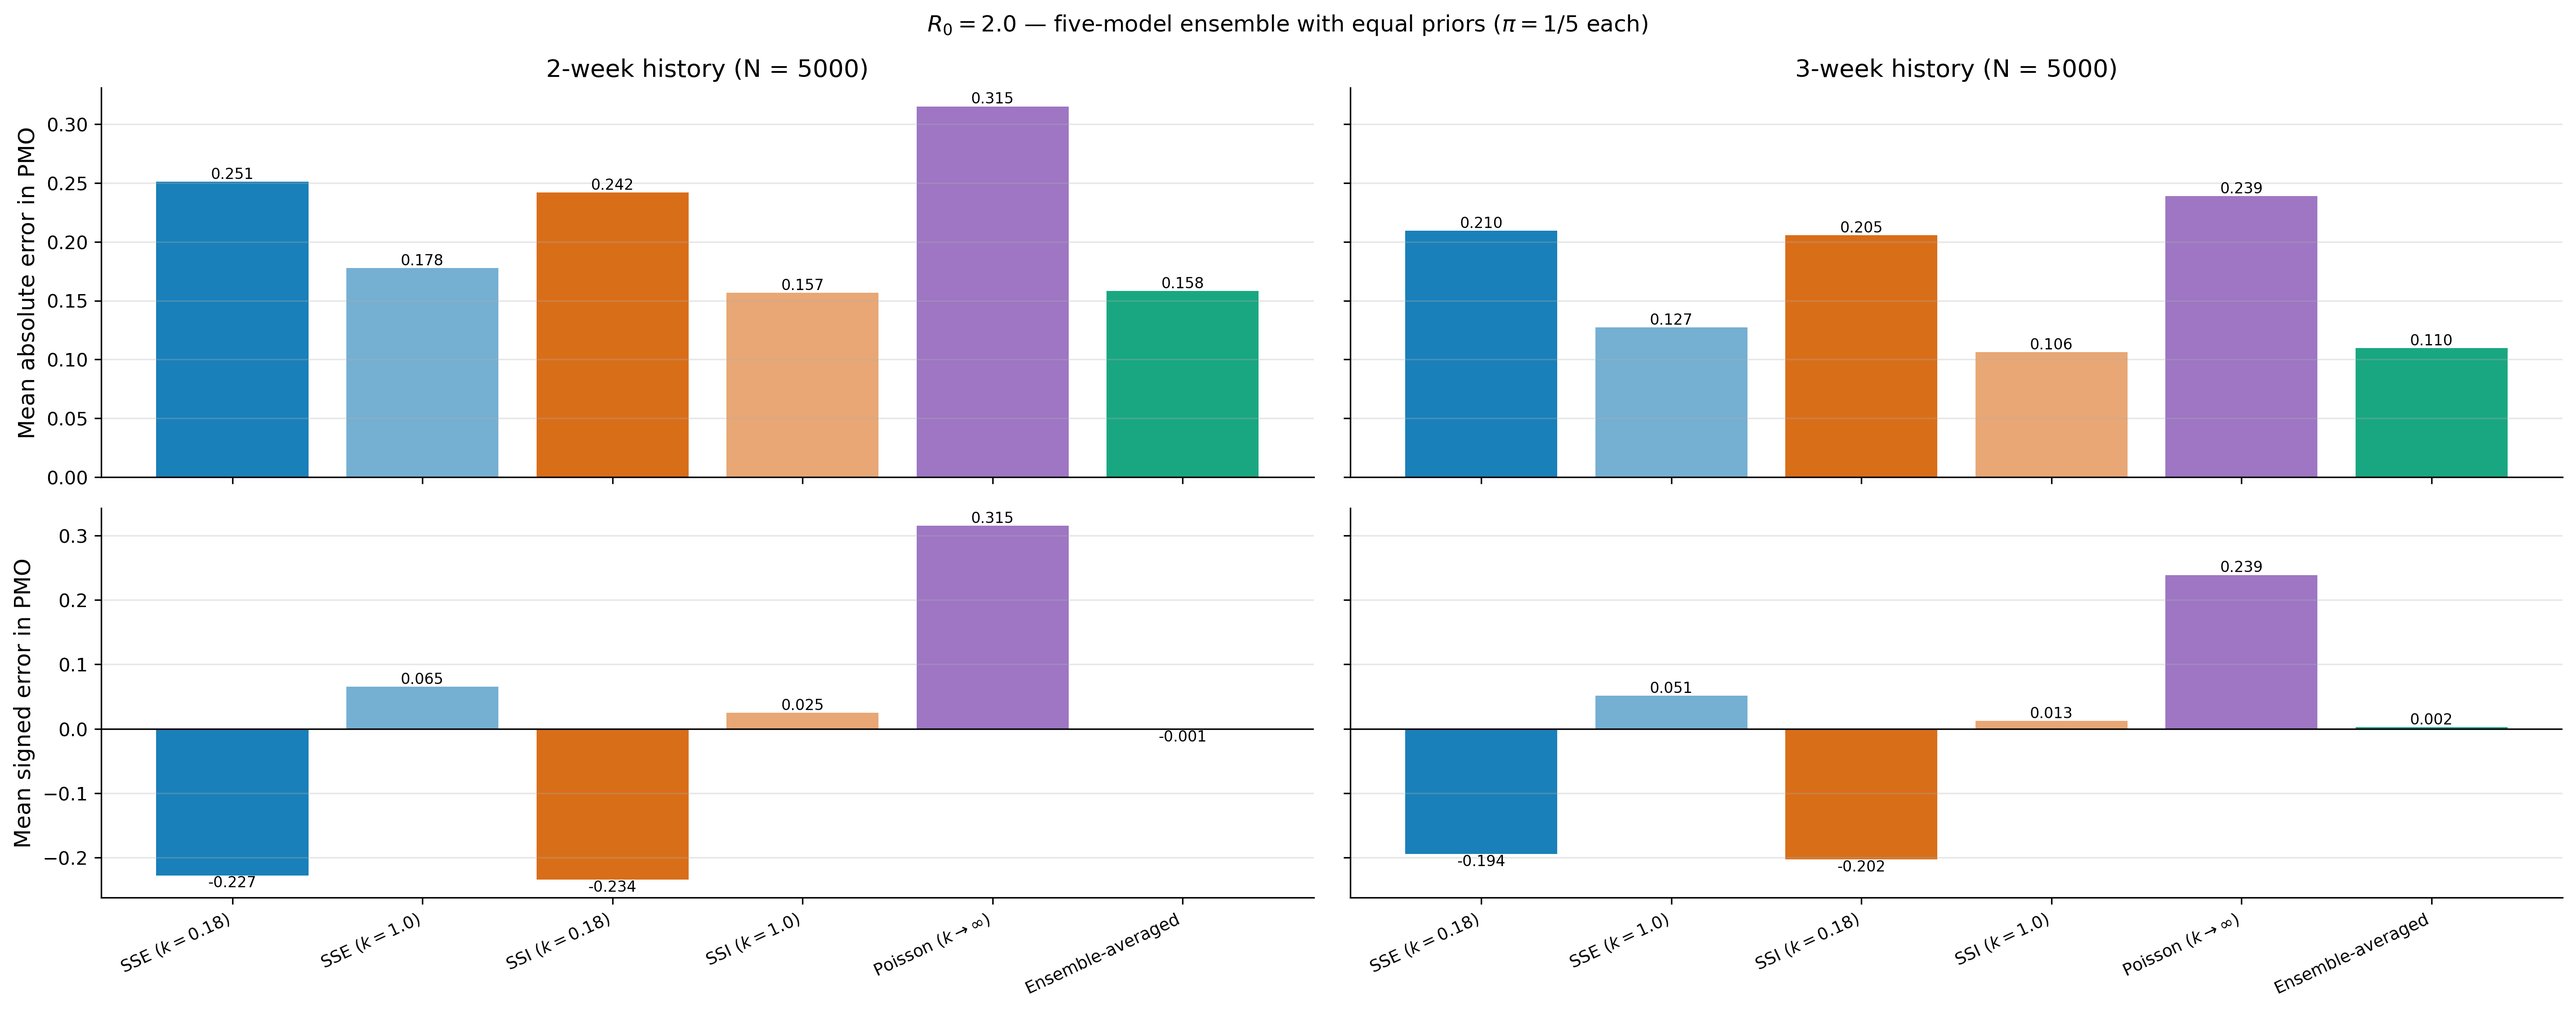
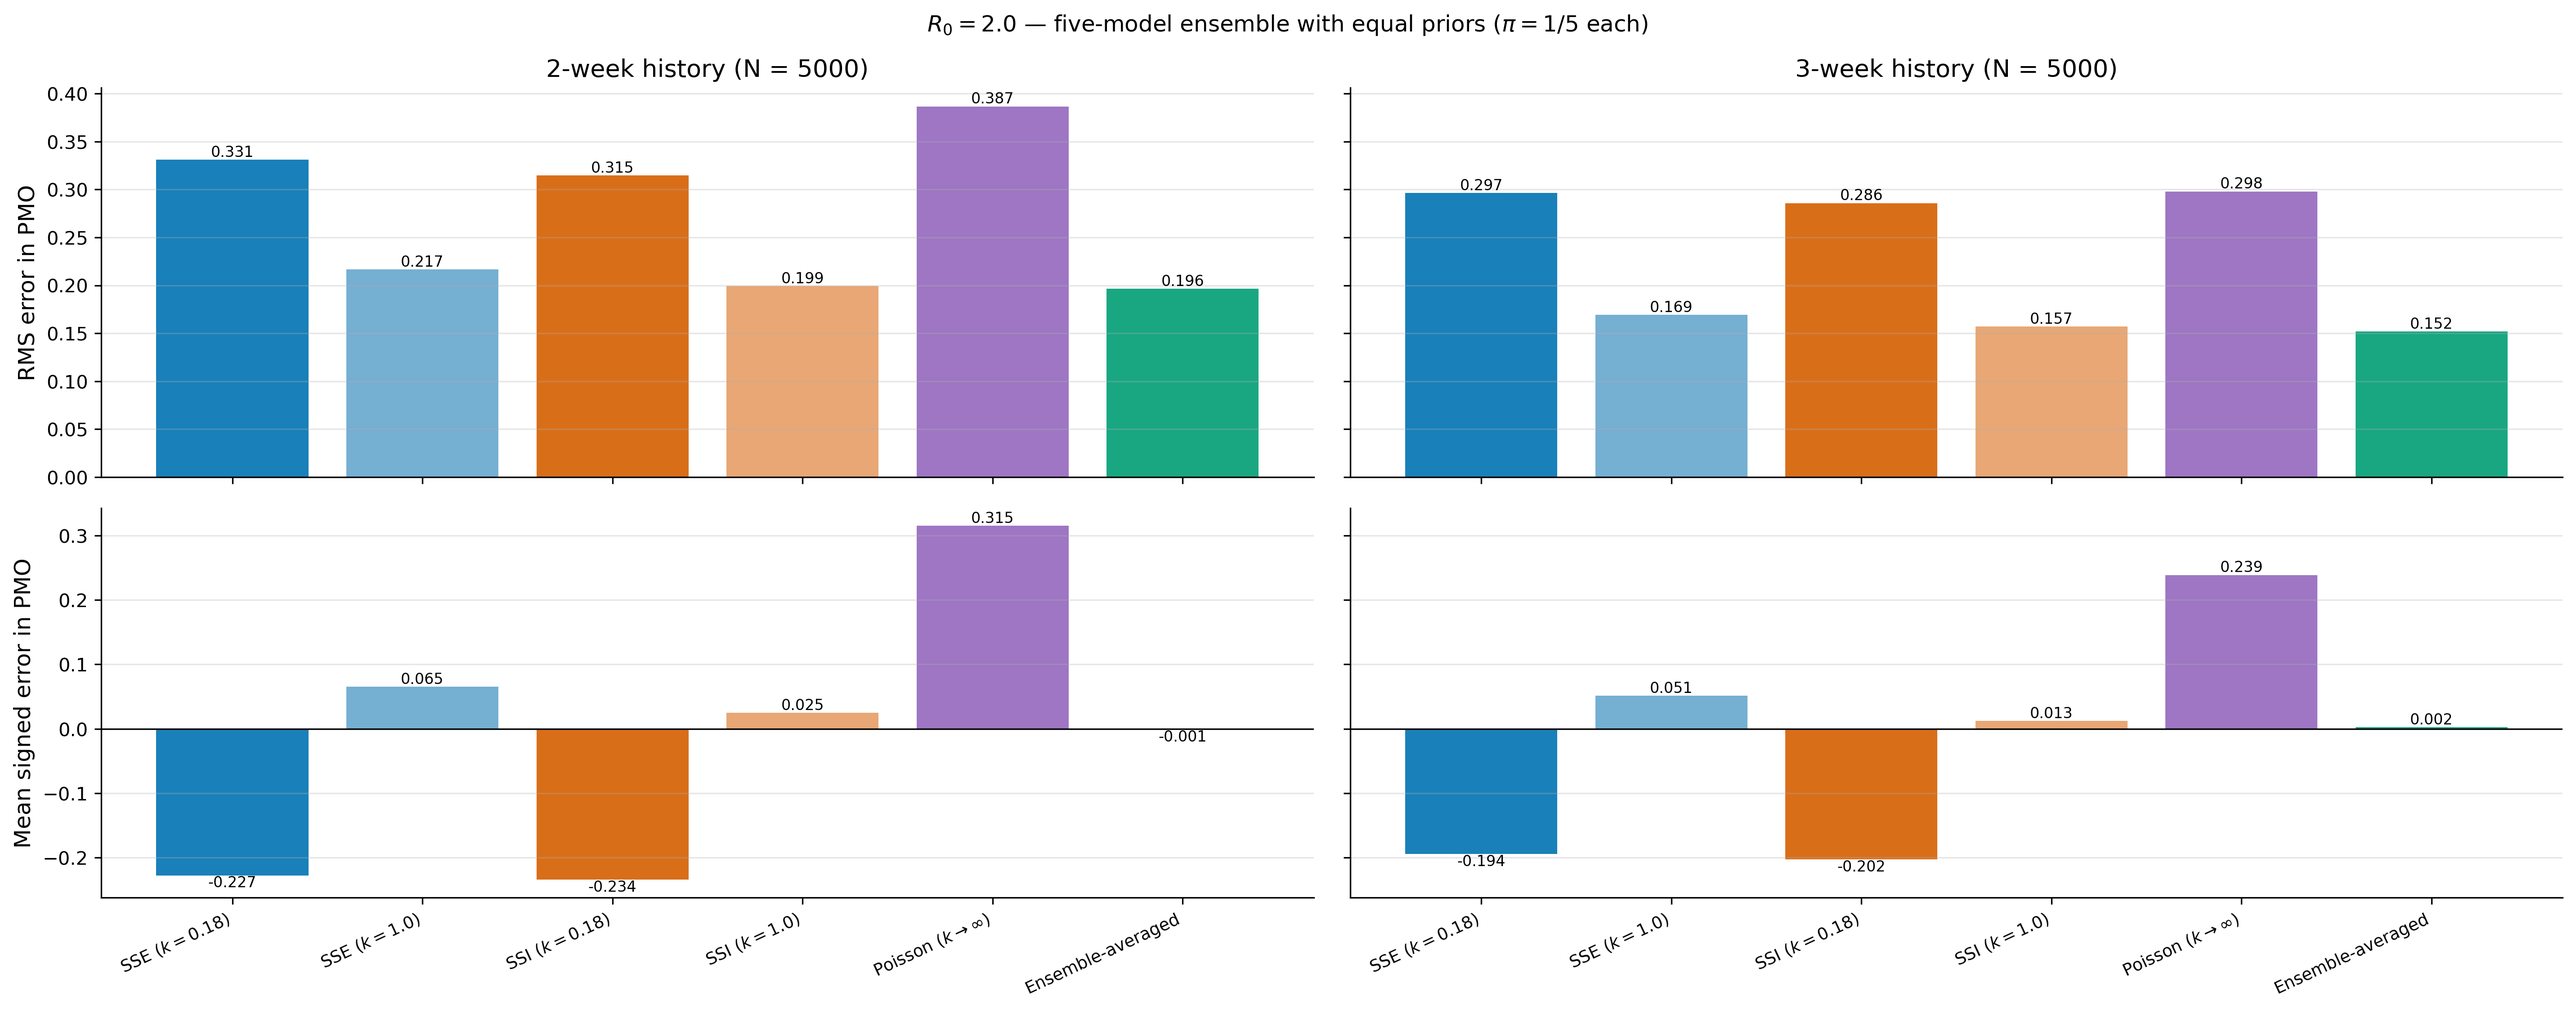
Switch Fig 7 top row to RMS error, drop USE_PERCENT_ERROR
Mirror the Figs 6/10 convention: top row defaults to RMS error
(USE_RMSE=True), with USE_RMSE=False reverting to mean absolute error.
USE_PERCENT_ERROR is removed.

diff --git a/analysis/figure_7_pmo_ensemble_error.py b/analysis/figure_7_pmo_ensemble_error.py
@@ -9,9 +9,8 @@ with six bars per panel:
 * Model-averaged ``pmo_ensemble`` with equal priors (1/5 each)
 
 Loads pre-computed results from results/fig7_pmo_ensemble_error.csv (run
-``results_7_pmo_ensemble_error.py`` first). Set ``USE_PERCENT_ERROR =
-True`` to switch both metrics to percentages (sims with ``pmo_true ==
-0`` are dropped from the percentage averages).
+``results_7_pmo_ensemble_error.py`` first). Set ``USE_RMSE = False`` to
+switch the top row from RMS error to mean absolute error.
 """
 
 from __future__ import annotations
@@ -38,7 +37,7 @@ R0: float = DEFAULT_R0
 K: float = DEFAULT_K
 K_LARGE: float = FIG7_K_LARGE
 HISTORY_LENGTHS: list[int] = FIG7_HISTORY_LENGTHS
-USE_PERCENT_ERROR: bool = False
+USE_RMSE: bool = True
 
 # Reuse fig6's ensemble colour for the model-averaged bar.
 ENSEMBLE_COLOUR = "#009E73"
@@ -62,12 +61,11 @@ BAR_KEYS: list[tuple[str, str, str]] = [
 
 def _aggregate(panel: pd.DataFrame, est_col: str, *, signed: bool) -> float:
     err = panel[est_col] - panel["pmo_true"]
-    if not signed:
-        err = err.abs()
-    if USE_PERCENT_ERROR:
-        mask = panel["pmo_true"] > 0
-        return float((err[mask] / panel["pmo_true"][mask]).mean() * 100.0)
-    return float(err.mean())
+    if signed:
+        return float(err.mean())
+    if USE_RMSE:
+        return float(np.sqrt((err**2).mean()))
+    return float(err.abs().mean())
 
 
 def main() -> None:
@@ -85,10 +83,8 @@ def main() -> None:
         squeeze=False,
     )
 
-    if USE_PERCENT_ERROR:
-        ylabels = ("Mean absolute % error in PMO", "Mean signed % error in PMO")
-    else:
-        ylabels = ("Mean absolute error in PMO", "Mean signed error in PMO")
+    top = "RMS error in PMO" if USE_RMSE else "Mean absolute error in PMO"
+    ylabels = (top, "Mean signed error in PMO")
 
     labels = [lbl for _, lbl, _ in BAR_KEYS]
     colours = [col for _, _, col in BAR_KEYS]
